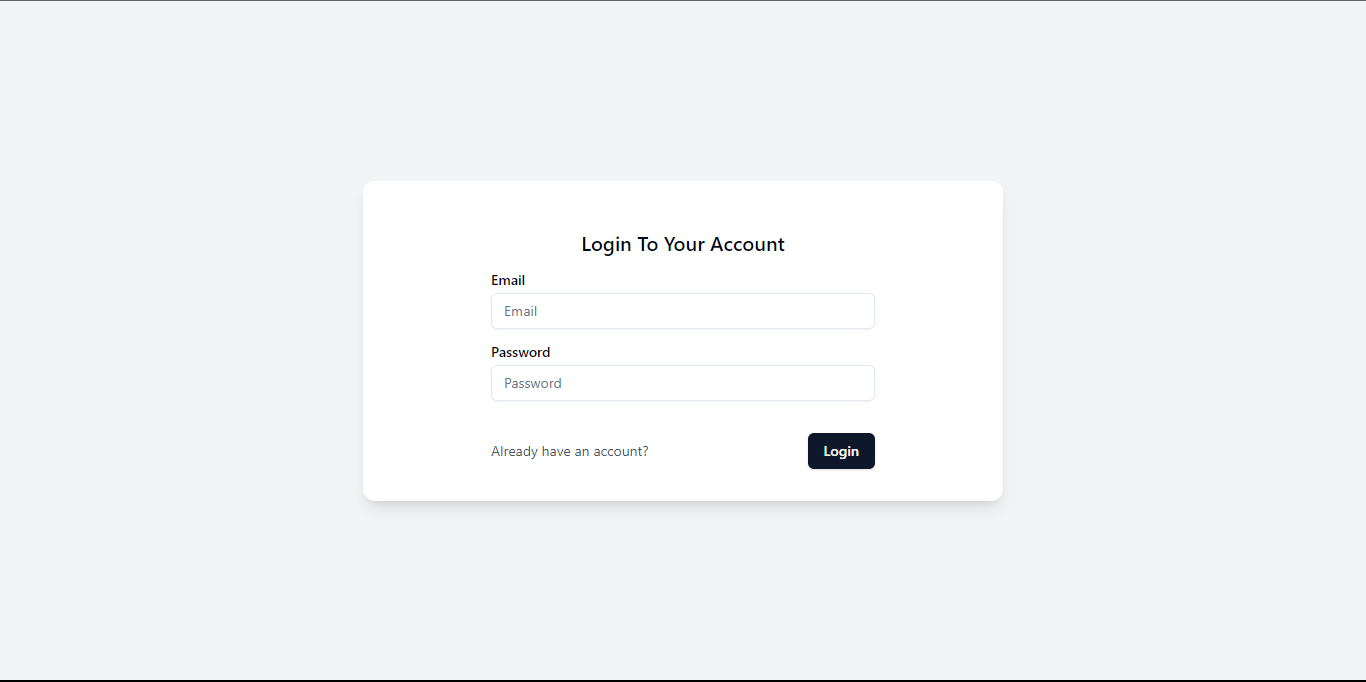
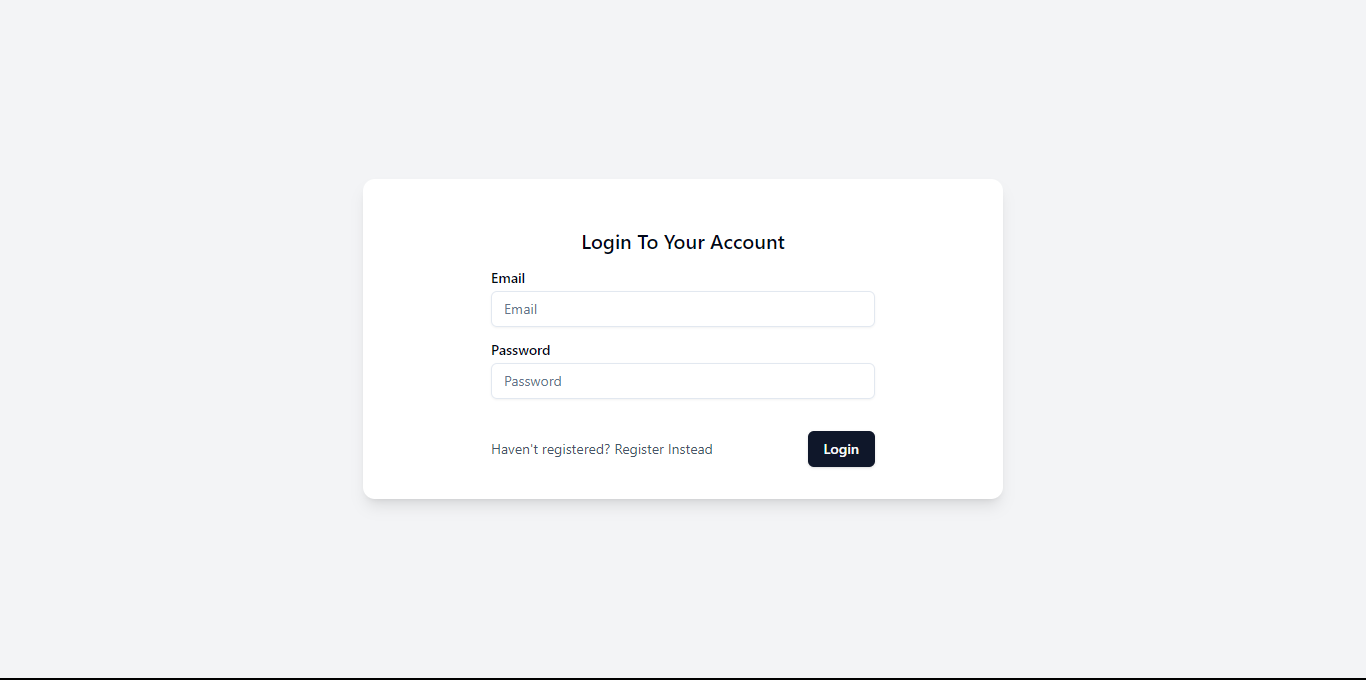
change screenshoot picture for login and register page

diff --git a/src/routes/(auth)/login/+page.svelte b/src/routes/(auth)/login/+page.svelte
@@ -29,7 +29,7 @@
             <InputError messages={form?.message} />
             <div class="flex justify-between items-center w-full max-w-sm">
                 <div class="flex flex-col">
-                    <a href="/register" class="text-sm text-slate-600">Haven' registered? Register Instead</a>
+                    <a href="/register" class="text-sm text-slate-600">Haven't registered? Register Instead</a>
                 </div>
                 <Button type="submit">Login</Button>
             </div>
